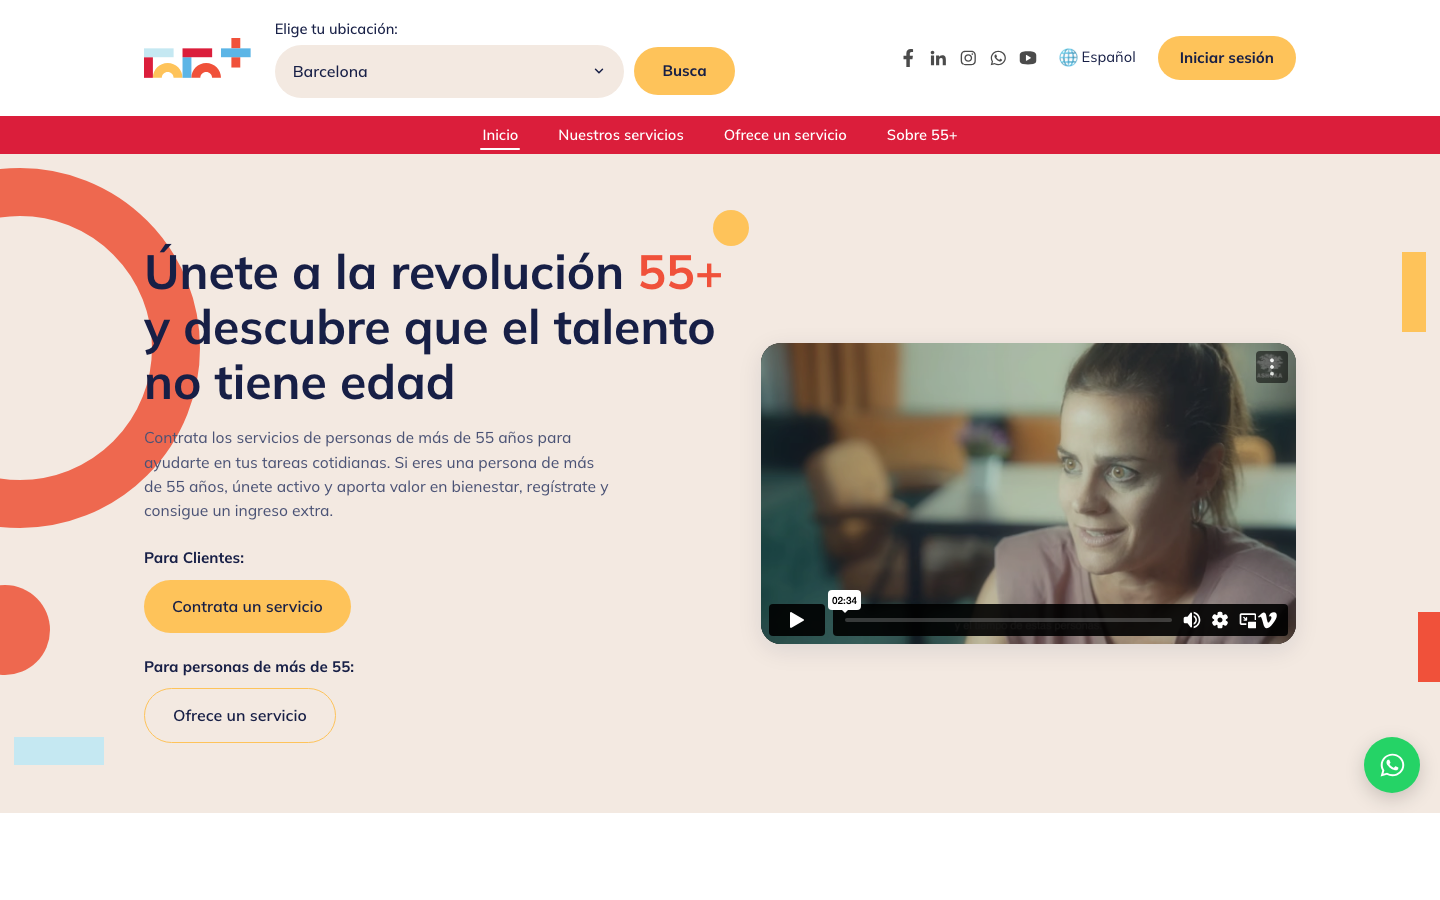
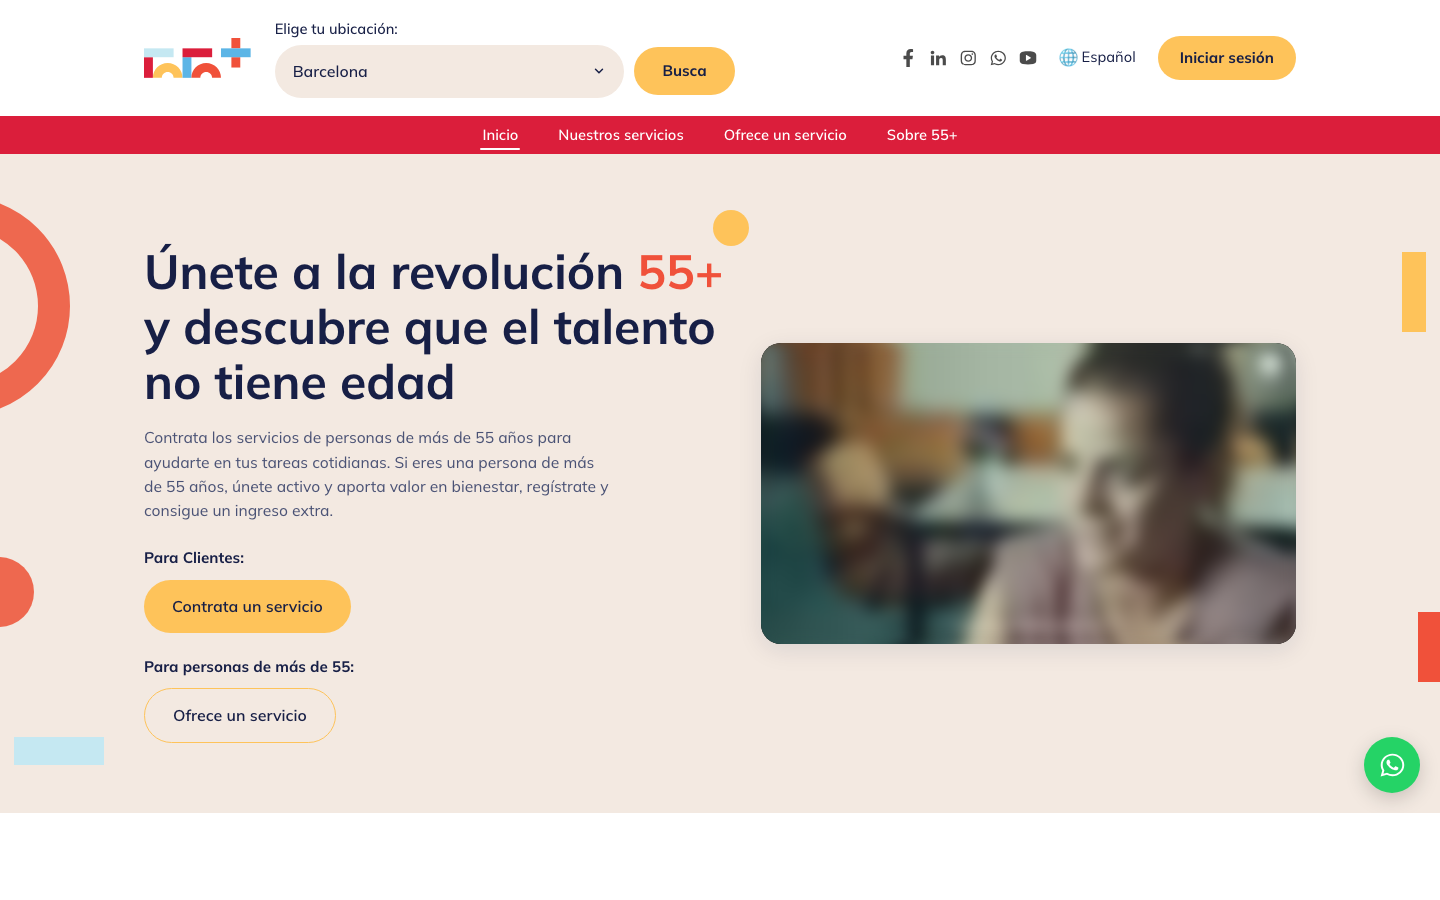
fix(mockup): shrink hero ring so it stops crossing the title text
Previous size (360×360, border 48, left -160) had the ring's right
edge bleeding into the headline column. Reduced to 220×220, border
32, left -150 — only the curved left portion peeks in, the right
edge sits well clear of the text. Disc trimmed to 70×70 for balance.

Not pushed.

diff --git a/static-mockups/55mas-home/styles.css b/static-mockups/55mas-home/styles.css
@@ -354,15 +354,15 @@ ul, ol { margin: 0; padding: 0; list-style: none; }
 
 @media (min-width: 768px) {
   .hero__decor--ring {
-    top: 2%;
-    left: -160px;
-    width: 360px; height: 360px;
-    border-width: 48px;
+    top: 6%;
+    left: -150px;
+    width: 220px; height: 220px;
+    border-width: 32px;
   }
   .hero__decor--disc {
-    top: 62%;
-    left: -40px;
-    width: 90px; height: 90px;
+    top: 58%;
+    left: -36px;
+    width: 70px; height: 70px;
   }
   .hero__decor--dot { top: 8%; right: 48%; width: 36px; height: 36px; }
   .hero__decor--yellow-rect {
